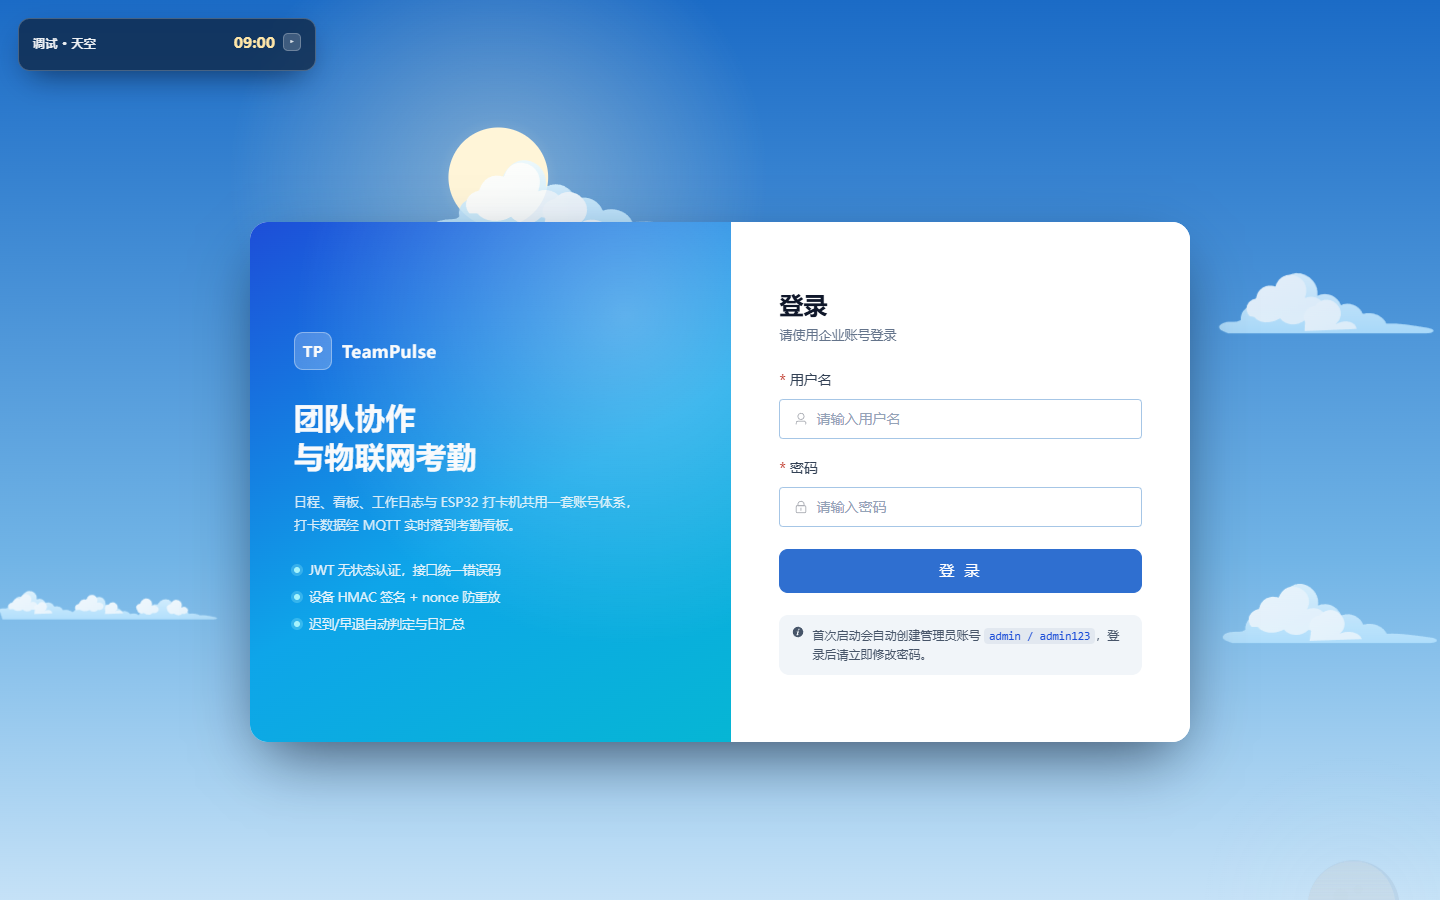
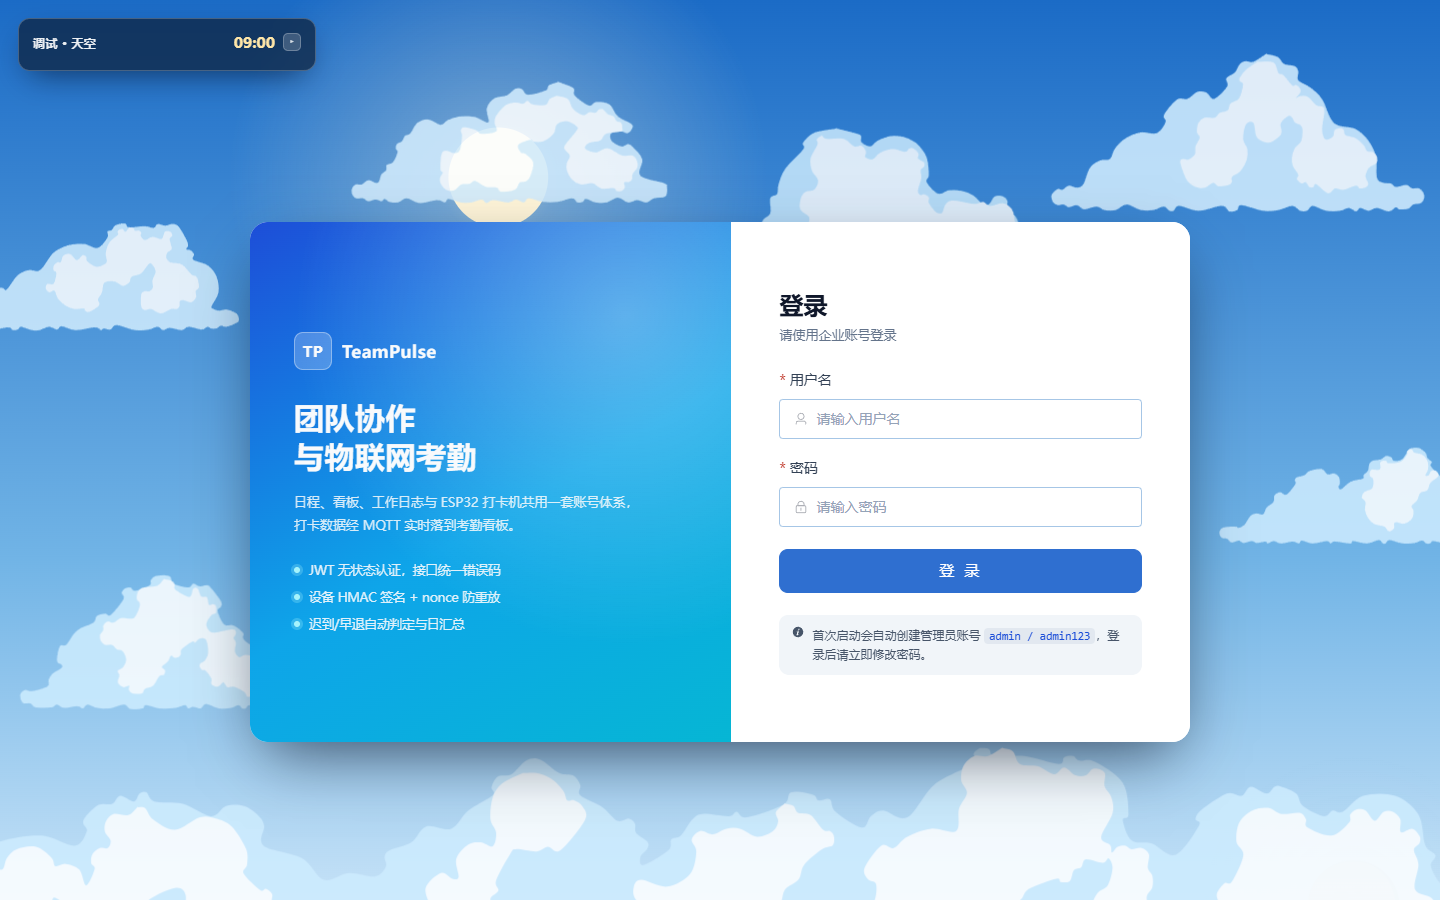
feat(login): 换成从 sprite 拆出的 7 个矢量云；07 做全宽底层云带；云尺寸放大
## 素材（替换旧的 7 个）
把之前那批 SVG 删掉，换成从 sprite 图拆出来的一组（tests/ui 里的
.run-logs/split-clouds-v7.py 生成，贝塞尔路径 + 两层：淡蓝底/白主体）。

同时修掉 cloud_split_02 云体外那个孤立小圆：
  原因：白色主体取了「最大的 2 个环」，第二个环就是那撮孤立高光。
  现在：只有宽高比 > 4 的长云带才保留多环，其余只取主轮廓 → 每层 1 条子路径。
  校验：cloud_split_01..06 每层子路径数都是 [1, 1]；07 是 [1, 5]（长条多个白团）。

## 页面布局
- 云尺寸放大：顶部 300~430px（原 190~290），两侧 250~340px（原 200~270）
- cloud-7 作为**全宽底层云带**：
    · 宽度 = 视口 × 1.34（1440 下 1930px）→ 左右被屏幕边缘自然切掉
    · 固定在 y = 0.93H，不参与漂移（否则两侧会露缝）
    · 排在列表首位 → DOM 先绘制，永远在其他云下面，被别的云覆盖
- 其余 6 朵分布在上方与左右留白；避让阈值提到 340px、最多试 30 次，
  实在放不下就少放一朵，避免两朵叠在一起

## 验证
1440×900：7 个 img（1 条云带 + 6 朵），云带宽 1930 > 视口 1440 ✓；
6 朵两两间距均 > 340 ✓；控制台无报错。

diff --git a/frontend/src/components/LoginSky.vue b/frontend/src/components/LoginSky.vue
@@ -139,28 +139,54 @@ function pickCloudSpot(region) {
 }
 
 function buildClouds() {
-  const n = Math.max(5, Math.min(7, Math.round(width / 240)))
-  const plan = ['top', 'top', 'left', 'right', 'top', 'right', 'left'].slice(0, n)
-
   const list = []
-  const usedIdx = new Set()
+
+  // ① 底层云带（cloud-7）：横跨整个屏幕，左右被屏幕边缘自然切掉，永远在最下层
+  const bandImg = cloudImages[6]
+  const bandRatio = bandImg?.naturalHeight ? bandImg.naturalHeight / bandImg.naturalWidth : 0.157
+  const bandW = width * 1.34
+  list.push({
+    src: CLOUD_SRC[6],
+    imgIndex: 6,
+    isBand: true,
+    x: width / 2,
+    y: height * 0.93,
+    hx: width / 2,
+    hy: height * 0.93,
+    w: bandW,
+    h: bandW * bandRatio,
+    alpha: 0.95,
+    vx: 0,
+    vy: 0,
+    rx: 0,
+    ry: 0,
+  })
+
+  // ② 其余 6 朵：分布在上方与左右留白，尺寸放大
+  const plan = ['top', 'top', 'left', 'right', 'top', 'left']
+  const usedIdx = new Set([6])
   for (const region of plan) {
-    let imgIndex = Math.floor(Math.random() * CLOUD_SRC.length)
-    for (let k = 0; k < CLOUD_SRC.length && usedIdx.has(imgIndex); k++) {
-      imgIndex = (imgIndex + 1) % CLOUD_SRC.length
+    let imgIndex = Math.floor(Math.random() * 6)
+    for (let k = 0; k < 6 && usedIdx.has(imgIndex); k++) {
+      imgIndex = (imgIndex + 1) % 6
     }
     usedIdx.add(imgIndex)
 
     const img = cloudImages[imgIndex]
-    const ratio = img?.naturalHeight ? img.naturalHeight / img.naturalWidth : 0.5
-    const targetW = region === 'top' ? rand(200, 300) : rand(200, 270)
+    const ratio = img?.naturalHeight ? img.naturalHeight / img.naturalWidth : 0.38
+    const targetW = region === 'top' ? rand(300, 430) : rand(250, 340)
 
     let spot = null
-    for (let tries = 0; tries < 8; tries++) {
+    for (let tries = 0; tries < 30; tries++) {
       const candidate = pickCloudSpot(region)
       spot = candidate
-      if (!list.some((c) => Math.hypot(c.hx - candidate.x, c.hy - candidate.y) < 240)) break
+      if (!list.some((c) => !c.isBand && Math.hypot(c.hx - candidate.x, c.hy - candidate.y) < 340)) {
+        spot = candidate
+        break
+      }
+      spot = null
     }
+    if (!spot) continue // 放不下就少放一朵，避免两朵叠在一起
 
     list.push({
       src: CLOUD_SRC[imgIndex],
@@ -171,11 +197,11 @@ function buildClouds() {
       hy: spot.y,
       w: targetW,
       h: targetW * ratio,
-      alpha: rand(0.88, 0.98),
-      vx: rand(-0.014, 0.014),
-      vy: rand(-0.005, 0.005),
-      rx: rand(60, 140),
-      ry: rand(18, 48),
+      alpha: rand(0.9, 1),
+      vx: rand(-0.012, 0.012),
+      vy: rand(-0.004, 0.004),
+      rx: rand(50, 110),
+      ry: rand(16, 40),
     })
   }
 
@@ -186,6 +212,7 @@ function buildClouds() {
 function stepClouds(dt) {
   const k = Math.min(dt, 32) / 16.67
   for (const c of cloudList.value) {
+    if (c.isBand) continue // 全宽云带固定不动，否则两侧会露出缝隙
     c.vx += rand(-0.0006, 0.0006) * k
     c.vy += rand(-0.0004, 0.0004) * k
     // 很轻的回家力：云慢慢漂回原位附近
